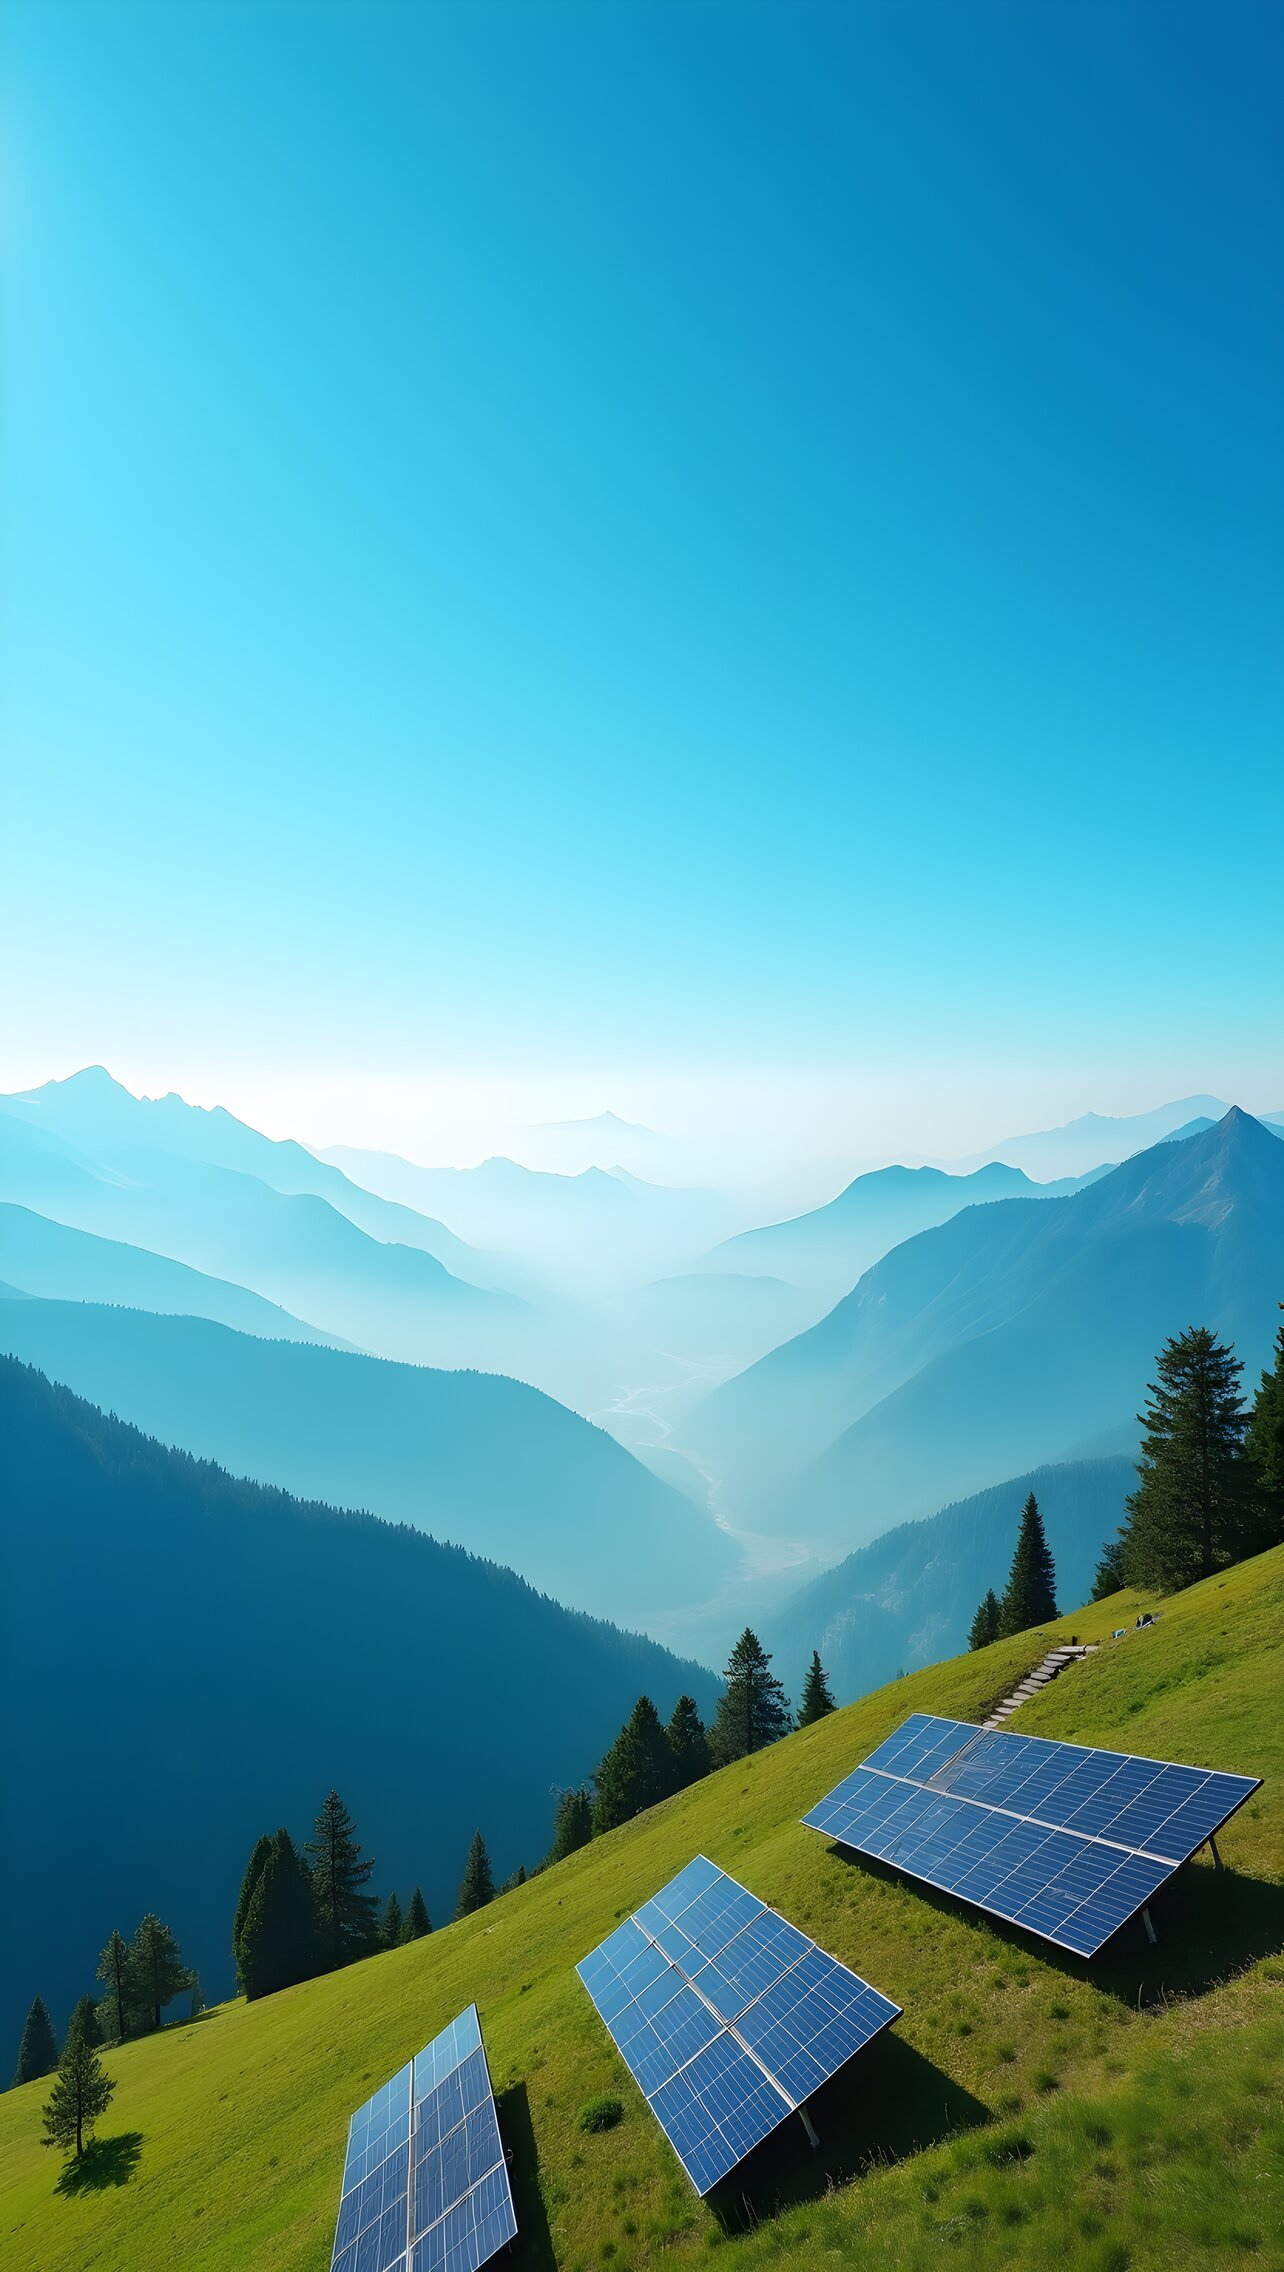
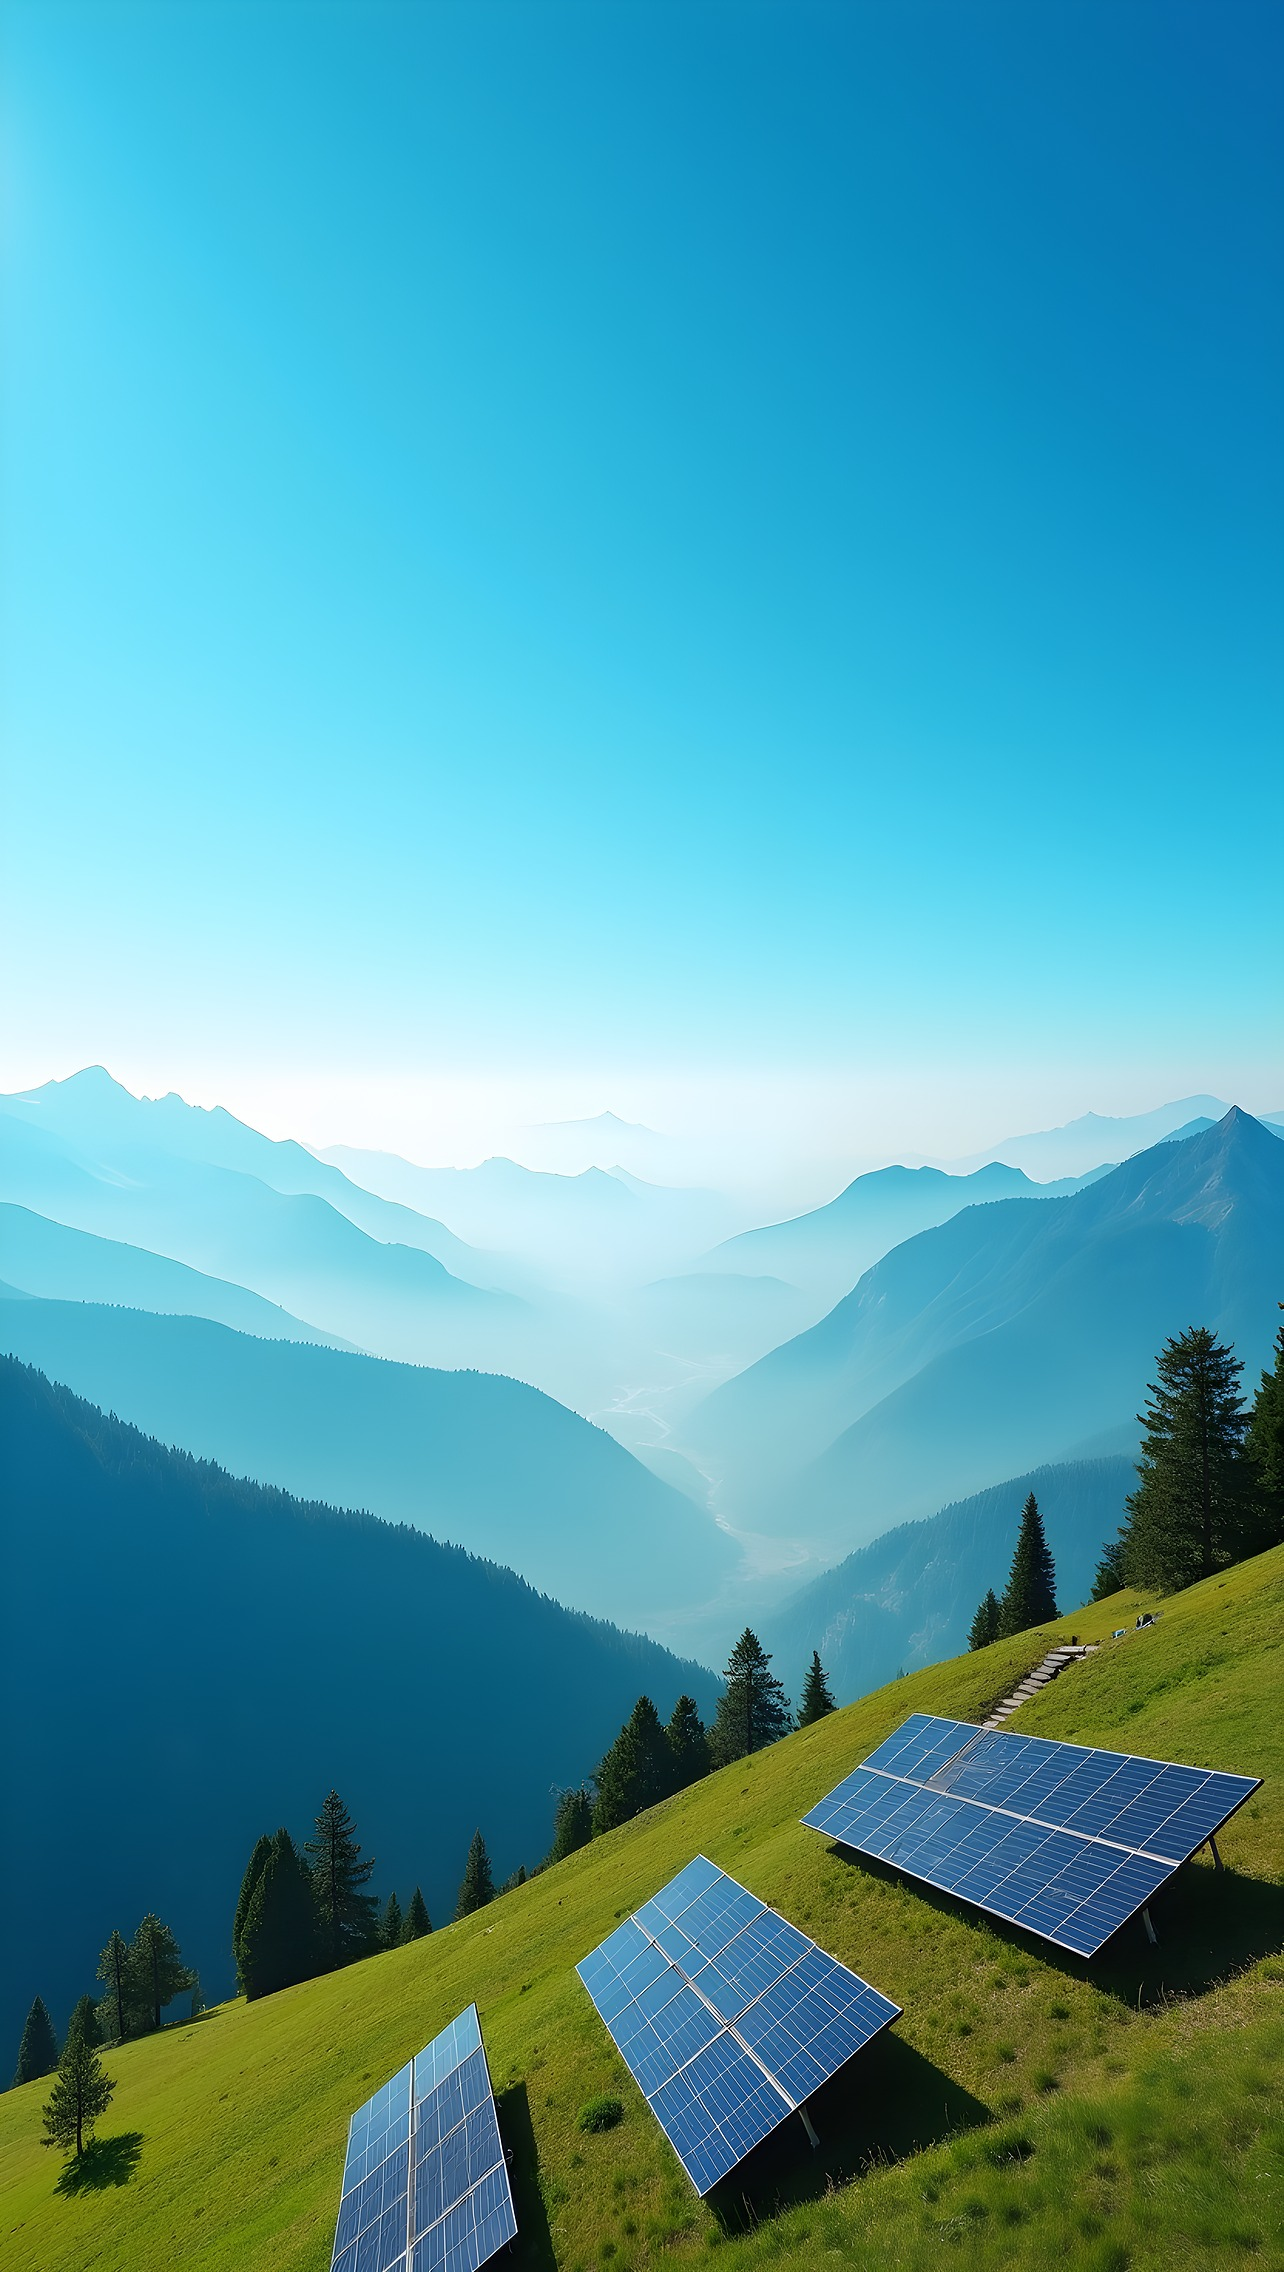
Rebuild sky world plates from 6K masters at high quality + density tiers
Prior delivery assets were soft over-compressed upscales (4K webp ~0.5MB).
Re-export from world-master-{desktop,mobile}-6k with Lanczos + light unsharp
and cwebp q≈85–90. Add 5120/6144 desktop and 2496/3328 mobile tiers so
2x–3x displays get matching PPI. CSS + preloads pick density-matched plates.

Changed region(s): [[0.5296, 0.8438, 0.6854, 0.9375]]

diff --git a/public/theme-sky-mobile.css b/public/theme-sky-mobile.css
@@ -55,12 +55,14 @@
     height:130vh; /* room for mountain-parallax pan (see theme-sky.css) */
     z-index:-1;
     pointer-events:none;
+    /* Default phone plate: 1284 (≈3x logical width of ~390–430 CSS px) —
+       rebuilt 2026-07-13 from the 6K portrait master at high quality. */
     background-image:
       url("img/sky/world-m-1284.jpg"),
       radial-gradient(120% 42% at 50% 104%, rgba(255,255,255,.55) 0%, rgba(255,255,255,0) 62%),
       linear-gradient(180deg, var(--sky-top) 0%, var(--sky-mid) 48%, var(--sky-horizon) 100%);
     background-image:
-      image-set(url("img/sky/world-m-828.webp") type("image/webp"),
+      image-set(url("img/sky/world-m-1284.webp") type("image/webp"),
                 url("img/sky/world-m-1284.jpg") type("image/jpeg")),
       radial-gradient(120% 42% at 50% 104%, rgba(255,255,255,.55) 0%, rgba(255,255,255,0) 62%),
       linear-gradient(180deg, var(--sky-top) 0%, var(--sky-mid) 48%, var(--sky-horizon) 100%);
@@ -257,18 +259,46 @@
   }
 }
 
-/* ── 6b · DENSE PHONES (≥2.1dppx — 3x iPhones, 2.6x Pixels) stream the 1284
-      portrait plate. Top-level so it declares AFTER (and beats) the base
-      ::before above and the desktop tiers in theme-sky.css. ─────────────── */
-@media (max-width:600px) and (min-resolution:2.1dppx){
+/* ── 6b · PLATE DENSITY TIERS (top-level — must beat the ≤600px base ::before) ─
+      1x  → world-m-828
+      2x+ → world-m-1284 (default inside ≤600)
+      2.5x+ → world-m-2496
+      3x+ → world-m-3328 (full portrait master) ────────────────────────────── */
+@media (max-width:600px) and (max-resolution:1.5dppx){
   html.sky body::before{
     background-image:
       url("img/sky/world-m-1284.jpg"),
       radial-gradient(120% 42% at 50% 104%, rgba(255,255,255,.55) 0%, rgba(255,255,255,0) 62%),
       linear-gradient(180deg, var(--sky-top) 0%, var(--sky-mid) 48%, var(--sky-horizon) 100%);
     background-image:
-      image-set(url("img/sky/world-m-1284.webp") type("image/webp"),
+      image-set(url("img/sky/world-m-828.webp") type("image/webp"),
                 url("img/sky/world-m-1284.jpg") type("image/jpeg")),
+      radial-gradient(120% 42% at 50% 104%, rgba(255,255,255,.55) 0%, rgba(255,255,255,0) 62%),
+      linear-gradient(180deg, var(--sky-top) 0%, var(--sky-mid) 48%, var(--sky-horizon) 100%);
+  }
+}
+@media (max-width:600px) and (min-resolution:2.5dppx){
+  html.sky body::before{
+    background-image:
+      url("img/sky/world-m-2496.jpg"),
+      radial-gradient(120% 42% at 50% 104%, rgba(255,255,255,.55) 0%, rgba(255,255,255,0) 62%),
+      linear-gradient(180deg, var(--sky-top) 0%, var(--sky-mid) 48%, var(--sky-horizon) 100%);
+    background-image:
+      image-set(url("img/sky/world-m-2496.webp") type("image/webp"),
+                url("img/sky/world-m-2496.jpg") type("image/jpeg")),
+      radial-gradient(120% 42% at 50% 104%, rgba(255,255,255,.55) 0%, rgba(255,255,255,0) 62%),
+      linear-gradient(180deg, var(--sky-top) 0%, var(--sky-mid) 48%, var(--sky-horizon) 100%);
+  }
+}
+@media (max-width:600px) and (min-resolution:3dppx){
+  html.sky body::before{
+    background-image:
+      url("img/sky/world-m-2496.jpg"),
+      radial-gradient(120% 42% at 50% 104%, rgba(255,255,255,.55) 0%, rgba(255,255,255,0) 62%),
+      linear-gradient(180deg, var(--sky-top) 0%, var(--sky-mid) 48%, var(--sky-horizon) 100%);
+    background-image:
+      image-set(url("img/sky/world-m-3328.webp") type("image/webp"),
+                url("img/sky/world-m-2496.jpg") type("image/jpeg")),
       radial-gradient(120% 42% at 50% 104%, rgba(255,255,255,.55) 0%, rgba(255,255,255,0) 62%),
       linear-gradient(180deg, var(--sky-top) 0%, var(--sky-mid) 48%, var(--sky-horizon) 100%);
   }

diff --git a/public/theme-sky.css b/public/theme-sky.css
@@ -160,6 +160,9 @@ html.sky body::before{
   height:130vh;
   z-index:-1;
   pointer-events:none;
+  /* Default plate: 2560 — rebuilt 2026-07-13 from the 6K master at high quality
+     (prior 3840.webp was a soft over-compressed upscale @ ~0.5MB; new tiers
+     preserve real edge detail and serve density-matched sizes). */
   background-image:
     url("img/sky/world-2560.jpg"),
     radial-gradient(120% 42% at 50% 104%, rgba(255,255,255,.55) 0%, rgba(255,255,255,0) 62%),
@@ -179,8 +182,8 @@ html.sky body::before{
 @media (prefers-reduced-motion: reduce){
   html.sky body::before{transform:none;will-change:auto}
 }
-/* smaller desktop windows stream the lighter plate */
-@media (max-width:1600px){
+/* small 1x desktops — lightest plate */
+@media (max-width:1600px) and (max-resolution:1.49dppx){
   html.sky body::before{
     background-image:
       url("img/sky/world-2560.jpg"),
@@ -193,17 +196,44 @@ html.sky body::before{
       linear-gradient(180deg, var(--sky-top) 0%, var(--sky-mid) 48%, var(--sky-horizon) 100%);
   }
 }
-/* big or high-density displays get the 4K plate (declared after the 1600
-   tier so a retina laptop in a ≤1600 window still gets the sharp plate) */
-@media (min-width:2200px), (min-resolution:1.5dppx){
+/* 4K plate — retina laptops / ≥2200 CSS px windows (later rules win) */
+@media (min-width:1800px), (min-resolution:1.5dppx){
   html.sky body::before{
     background-image:
-      url("img/sky/world-2560.jpg"),
+      url("img/sky/world-3840.jpg"),
       radial-gradient(120% 42% at 50% 104%, rgba(255,255,255,.55) 0%, rgba(255,255,255,0) 62%),
       linear-gradient(180deg, var(--sky-top) 0%, var(--sky-mid) 48%, var(--sky-horizon) 100%);
     background-image:
       image-set(url("img/sky/world-3840.webp") type("image/webp"),
-                url("img/sky/world-2560.jpg") type("image/jpeg")),
+                url("img/sky/world-3840.jpg") type("image/jpeg")),
+      radial-gradient(120% 42% at 50% 104%, rgba(255,255,255,.55) 0%, rgba(255,255,255,0) 62%),
+      linear-gradient(180deg, var(--sky-top) 0%, var(--sky-mid) 48%, var(--sky-horizon) 100%);
+  }
+}
+/* 5K plate — 2x retina desktops (~2880–5120 physical px) */
+@media (min-resolution:2dppx), (min-width:2400px) and (min-resolution:1.5dppx){
+  html.sky body::before{
+    background-image:
+      url("img/sky/world-3840.jpg"),
+      radial-gradient(120% 42% at 50% 104%, rgba(255,255,255,.55) 0%, rgba(255,255,255,0) 62%),
+      linear-gradient(180deg, var(--sky-top) 0%, var(--sky-mid) 48%, var(--sky-horizon) 100%);
+    background-image:
+      image-set(url("img/sky/world-5120.webp") type("image/webp"),
+                url("img/sky/world-3840.jpg") type("image/jpeg")),
+      radial-gradient(120% 42% at 50% 104%, rgba(255,255,255,.55) 0%, rgba(255,255,255,0) 62%),
+      linear-gradient(180deg, var(--sky-top) 0%, var(--sky-mid) 48%, var(--sky-horizon) 100%);
+  }
+}
+/* 6K plate — full master for 2.5x+ / 5K–6K displays */
+@media (min-resolution:2.5dppx), (min-width:2800px) and (min-resolution:2dppx){
+  html.sky body::before{
+    background-image:
+      url("img/sky/world-3840.jpg"),
+      radial-gradient(120% 42% at 50% 104%, rgba(255,255,255,.55) 0%, rgba(255,255,255,0) 62%),
+      linear-gradient(180deg, var(--sky-top) 0%, var(--sky-mid) 48%, var(--sky-horizon) 100%);
+    background-image:
+      image-set(url("img/sky/world-6144.webp") type("image/webp"),
+                url("img/sky/world-3840.jpg") type("image/jpeg")),
       radial-gradient(120% 42% at 50% 104%, rgba(255,255,255,.55) 0%, rgba(255,255,255,0) 62%),
       linear-gradient(180deg, var(--sky-top) 0%, var(--sky-mid) 48%, var(--sky-horizon) 100%);
   }

diff --git a/public/index.html b/public/index.html
@@ -69,12 +69,16 @@ document.documentElement.setAttribute("data-theme","day");
      theme-sky.css §2 + theme-sky-mobile.css §1/§6b EXACTLY — keep them in
      sync or a viewport double-fetches. Flag off → none of this runs. */
   [["img/sky/world-1600.webp","(min-width:601px) and (max-width:1600px) and (max-resolution:1.49dppx)"],
-   ["img/sky/world-2560.webp","(min-width:1601px) and (max-width:2199px) and (max-resolution:1.49dppx)"],
-   ["img/sky/world-3840.webp","(min-width:601px) and (min-resolution:1.5dppx), (min-width:2200px)"],
-   ["img/sky/world-m-828.webp","(max-width:600px) and (max-resolution:2.09dppx)"],
-   ["img/sky/world-m-1284.webp","(max-width:600px) and (min-resolution:2.1dppx)"]
+   ["img/sky/world-2560.webp","(min-width:1601px) and (max-width:1799px) and (max-resolution:1.49dppx)"],
+   ["img/sky/world-3840.webp","(min-width:601px) and (min-resolution:1.5dppx) and (max-resolution:1.99dppx), (min-width:1800px) and (max-resolution:1.99dppx)"],
+   ["img/sky/world-5120.webp","(min-width:601px) and (min-resolution:2dppx) and (max-resolution:2.49dppx)"],
+   ["img/sky/world-6144.webp","(min-width:601px) and (min-resolution:2.5dppx)"],
+   ["img/sky/world-m-828.webp","(max-width:600px) and (max-resolution:1.5dppx)"],
+   ["img/sky/world-m-1284.webp","(max-width:600px) and (min-resolution:1.51dppx) and (max-resolution:2.49dppx)"],
+   ["img/sky/world-m-2496.webp","(max-width:600px) and (min-resolution:2.5dppx) and (max-resolution:2.99dppx)"],
+   ["img/sky/world-m-3328.webp","(max-width:600px) and (min-resolution:3dppx)"]
   ].forEach(function(p){ document.write('<link rel="preload" as="image" type="image/webp" fetchpriority="high" href="'+p[0]+'" media="'+p[1]+'">'); });
-  ["theme-sky.css?v=20260712sky5","theme-sky-triage.css?v=20260712sky2","theme-sky-reports.css?v=20260712sky1","theme-sky-account.css?v=20260712sky3","theme-sky-analysis.css?v=20260712sky2","theme-sky-trends.css?v=20260712sky2","theme-sky-resources.css?v=20260712sky1","theme-sky-mobile.css?v=20260712sky4"].forEach(function(h){ document.write('<link rel="stylesheet" href="'+h+'">'); });
+  ["theme-sky.css?v=20260713hires1","theme-sky-triage.css?v=20260712sky2","theme-sky-reports.css?v=20260712sky1","theme-sky-account.css?v=20260712sky3","theme-sky-analysis.css?v=20260712sky2","theme-sky-trends.css?v=20260712sky2","theme-sky-resources.css?v=20260712sky1","theme-sky-mobile.css?v=20260713hires1"].forEach(function(h){ document.write('<link rel="stylesheet" href="'+h+'">'); });
 }</script>
 <!-- Mountain parallax: as you scroll, the world plate pans slightly so the UI
      feels like glass floating over a real landscape you're moving through.
